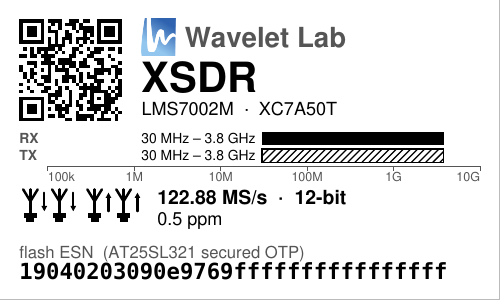
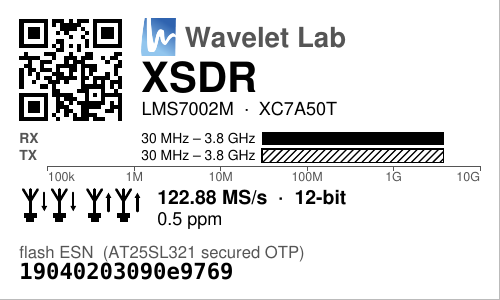
sdr: the XSDR label prints the ESN's programmed bytes
Its AT25SL321's 128-bit ESN field holds 64 programmed bits and 64 erased
ones. The label and its QR carry 19040203090e9769; the provenance says the
rest read erased, and the document keeps all 128 bits.

Claude-Session: https://claude.ai/code/session_01PBYpeR32kHxmN65GqkGhJx

Changed region(s): [[0.03, 0.06, 0.27, 0.42], [0.45, 0.87, 0.9, 0.93]]

diff --git a/tests/test_sdr_labels.py b/tests/test_sdr_labels.py
@@ -80,7 +80,7 @@ def test_a_label_row_per_radio():
     assert rows == [("rpi-sdr-kraken", "sdr", "KrakenSDR 1000\u20131004"),
                     ("rpi-sdr-pluto", "sdr", "ADALM-Pluto 10447354119600022000120009f61e2b82"),
                     ("rpi-sdr-rtlsdr-v3", "sdr", "RTL-SDR V3 00000001"),
-                    ("rpi-sdr-xsdr", "sdr", "XSDR 19040203090e9769ffffffffffffffff")]
+                    ("rpi-sdr-xsdr", "sdr", "XSDR 19040203090e9769")]
 
 
 def test_frequencies_read_as_people_write_them():
@@ -105,7 +105,7 @@ def test_render_and_decode(tmp_path):
     for png in sorted(glob.glob(str(tmp_path / "page-*.png"))):
         got |= {b.text for b in zxingcpp.read_barcodes(Image.open(png))}
     # the Kraken and the V3 have no identity to encode, so they get no code
-    assert got == {"10447354119600022000120009f61e2b82", "19040203090e9769ffffffffffffffff"}
+    assert got == {"10447354119600022000120009f61e2b82", "19040203090e9769"}
 
 
 def test_a_missing_mark_sets_the_makers_name(tmp_path, monkeypatch):
@@ -124,7 +124,8 @@ def test_the_xsdr_is_keyed_on_its_flash_esn():
     x = records()["rpi-sdr-xsdr"]
     assert x.title == "XSDR"
     assert x.maker == "Wavelet Lab"
-    assert x.ident == "19040203090e9769ffffffffffffffff"
+    assert x.ident == "19040203090e9769"         # the programmed half; the rest is erased
+    assert "last 64 read erased" in dict(x.provenance)["identity, erased"]
     assert "XC7A50T" in x.subtitle
     assert (x.rx_channels, x.tx_channels) == (2, 2)
     prov = dict(x.provenance)

diff --git a/src/rpi_hwid/sdr_labels.py b/src/rpi_hwid/sdr_labels.py
@@ -282,6 +282,17 @@ def record(host, key, r):
         ident = r.flash_uid if r.flash_uid_state == "read" else None
         ident_caption = "flash ESN  (AT25SL321 secured OTP)"
         if ident:
+            # The label prints the bytes that were programmed; the erased
+            # tail (ff) is the part of the 128-bit field nobody wrote, and
+            # the document keeps all of it.
+            full = ident
+            while ident.lower().endswith("ff") and len(ident) > 2:
+                ident = ident[:-2]
+            if ident != full:
+                prov.append(("identity, erased", f"read: ESN {full}: the {len(ident) * 4} "
+                                                 "bits printed are the programmed ones; "
+                                                 f"the last {(len(full) - len(ident)) * 4} "
+                                                 "read erased (ff)"))
             prov.append(("identity", "read: the configuration flash's secured-OTP ESN, "
                                      f"{r.flash_uid_note}; Renesas DS-AT25SL321-112 Rev. K "
                                      "8.41 and Table 17 (\"128-bit ESN (Electrical Serial "
